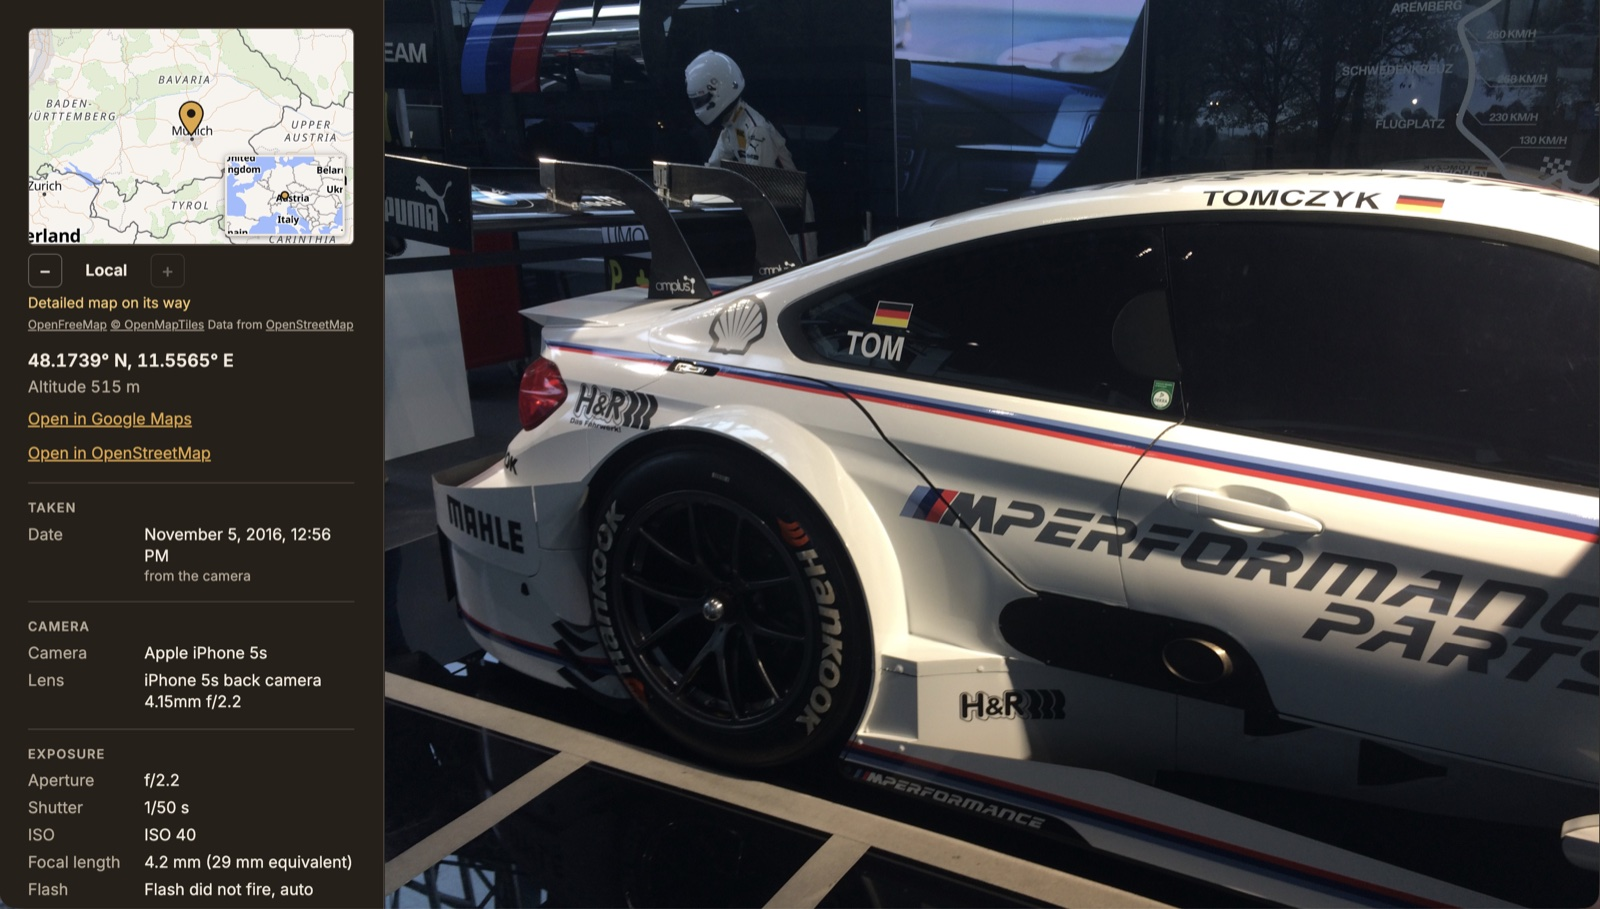
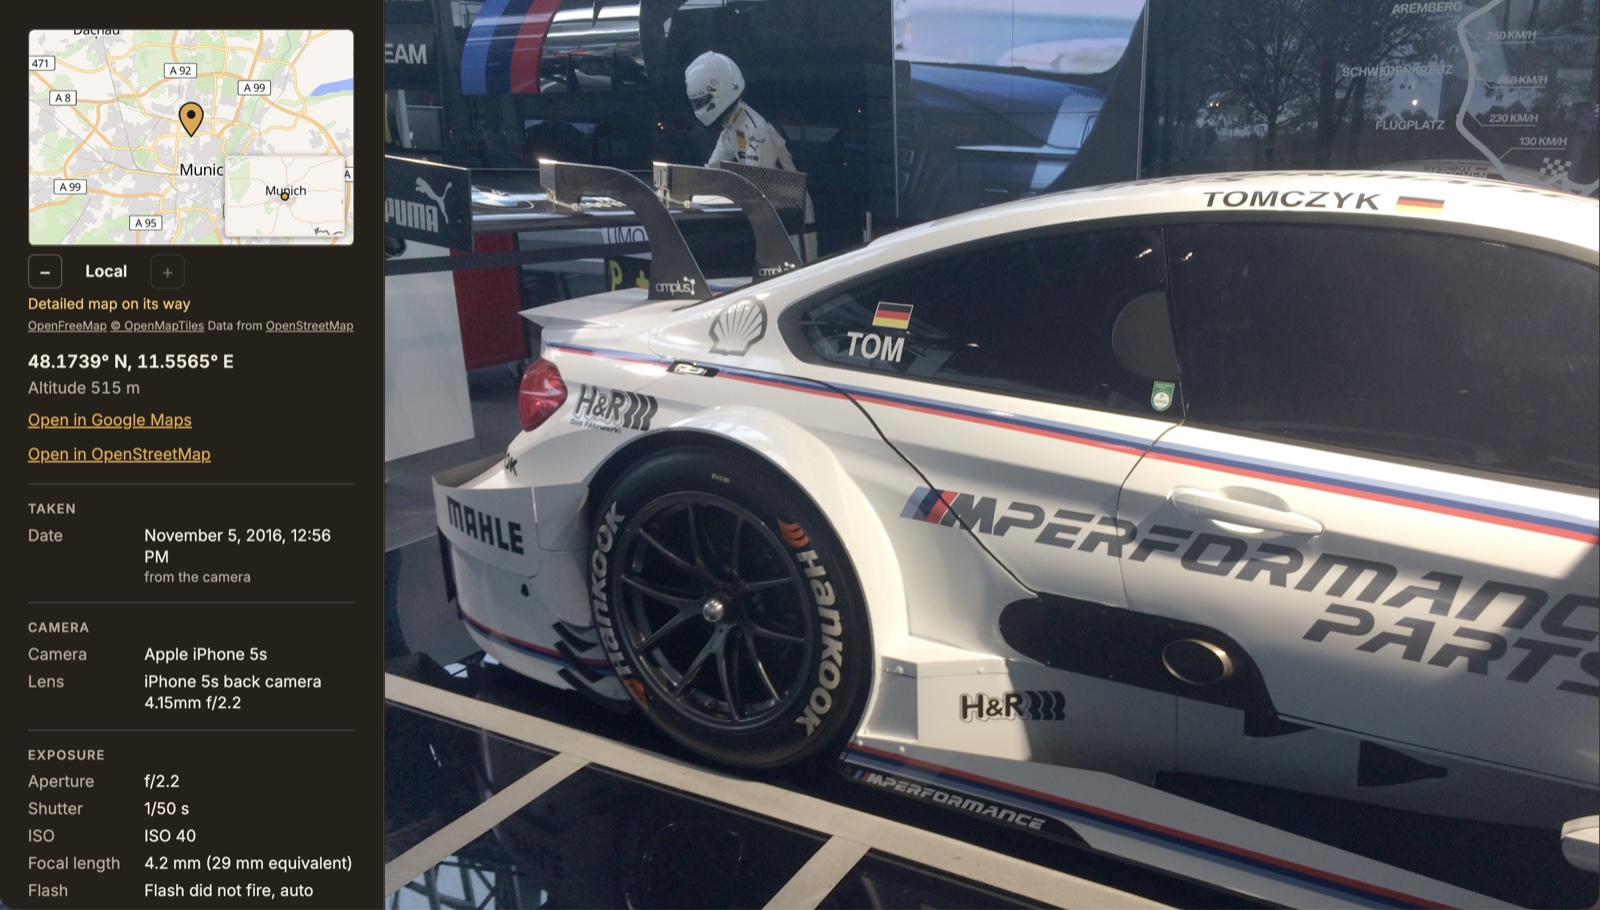
Site: ONE grid, Grid 4 and 6, card import and street-level map shots
ONE's dense grid (Grid 10) fills slot 3, with Grid 4 and Grid 6 beside
each other below it and a line naming the four sizes (4, 6, 10, 14).
STORE's Card import page fills slot 4. The info-panel shot is replaced
by one with the street-level Munich map and the brightened photo.

Frames that hold a picture now take its own aspect ratio instead of a
fixed 16:10, so wider and taller screenshots aren't cropped.

Only the optional legacy and modern front-end slots (6a, 6b) are still
empty, so this branch isn't ready to merge until they're filled or that
section is reverted to text.

diff --git a/one.html b/one.html
@@ -40,10 +40,20 @@
     <p class="intro">lumento ONE is meant to replace the NAS's stock photo and video gallery.  Point it at your folders and it does the rest in the background.</p>
     <figure class="shot laptop wide">
       <div class="frame">
-        <!-- Screenshot 3: <img src="assets/shots/one-grid.png" width="1600" height="1000" alt="ONE's dense tiled view of a photo folder" loading="lazy"> -->
-        <div class="slot"><span><strong>Screenshot 3</strong>ONE's dense tiled view, in a browser</span></div>
+        <img src="assets/shots/one-grid.jpg" width="1600" height="830" alt="ONE's tiled view of a Majorca folder at Grid 10: sixty photo tiles at once, with Up, Prev, Next, Grid, Mark, Projects, Full, Remote, Import and Settings buttons down the left" loading="lazy">
       </div>
     </figure>
+    <p class="intro">Choose how many photos fit across: Grid 4, 6, 10 or 14.  Fewer for a closer look with file names, more to scan a whole shoot at a glance.</p>
+    <div class="shot-pair">
+      <figure class="shot laptop">
+        <div class="frame"><img src="assets/shots/one-grid-4.jpg" width="1600" height="910" alt="The same folder at Grid 4, with large tiles and file names" loading="lazy"></div>
+        <figcaption><strong>Grid 4</strong>: big tiles, to see what's in each photo.</figcaption>
+      </figure>
+      <figure class="shot laptop">
+        <div class="frame"><img src="assets/shots/one-grid-6.jpg" width="1600" height="913" alt="The same folder at Grid 6, with medium tiles and file names" loading="lazy"></div>
+        <figcaption><strong>Grid 6</strong>: a good middle for most folders.</figcaption>
+      </figure>
+    </div>
 
     <div class="features">
       <div class="feature"><h3>Any share, any folder</h3><p>Use as many library folders as you like, on any share.  The NAS's stock gallery wants everything in one fixed <code>/Photos</code> share.  ONE shows your photos where you keep them.</p></div>
@@ -117,8 +127,7 @@
   <div class="wrap showcase">
     <figure class="shot laptop">
       <div class="frame">
-        <!-- Screenshot 4: <img src="assets/shots/one-card-import.png" width="1600" height="1000" alt="lumento STORE's card import page, shown in ONE" loading="lazy"> -->
-        <div class="slot"><span><strong>Screenshot 4</strong>STORE's card-reader import, in ONE</span></div>
+        <img src="assets/shots/one-card-import.png" width="1600" height="1195" alt="lumento STORE's Card import page: what happens to the files, the import settings for destination, folder and label, and the Choose the card step" loading="lazy">
       </div>
     </figure>
     <div>
@@ -140,7 +149,7 @@
   <div class="wrap showcase flip">
     <figure class="shot laptop">
       <div class="frame">
-        <img src="assets/shots/one-map.jpg" width="1600" height="909" alt="A photo's info panel in ONE: a map pinned near Munich, the coordinates, and the date and camera details, beside a photo of a BMW touring car" loading="lazy">
+        <img src="assets/shots/one-map.jpg" width="1600" height="910" alt="A photo's info panel in ONE: a street-level map pinned in Munich, the coordinates, and the date and camera details, beside a brightened photo of a BMW touring car" loading="lazy">
       </div>
     </figure>
     <div>

diff --git a/styles.css b/styles.css
@@ -305,6 +305,8 @@ table.compare{width:100%;border-collapse:collapse;font-size:15px;min-width:520px
 .shot.phone .frame img{height:100%;object-fit:cover}
 .shot.laptop .frame{aspect-ratio:16/10;border:1px solid var(--border);border-radius:14px}
 .shot.laptop .frame img{height:100%;object-fit:cover;object-position:top left}
+.shot .frame:has(>img){aspect-ratio:auto}
+.shot .frame:has(>img) img{height:auto;object-fit:initial}
 .shot.wide{margin-top:44px}
 .shot.wide .frame{max-width:1040px;margin:auto}
 .shot figcaption{margin-top:14px;font-size:14px;color:var(--ink-soft);text-align:center}
